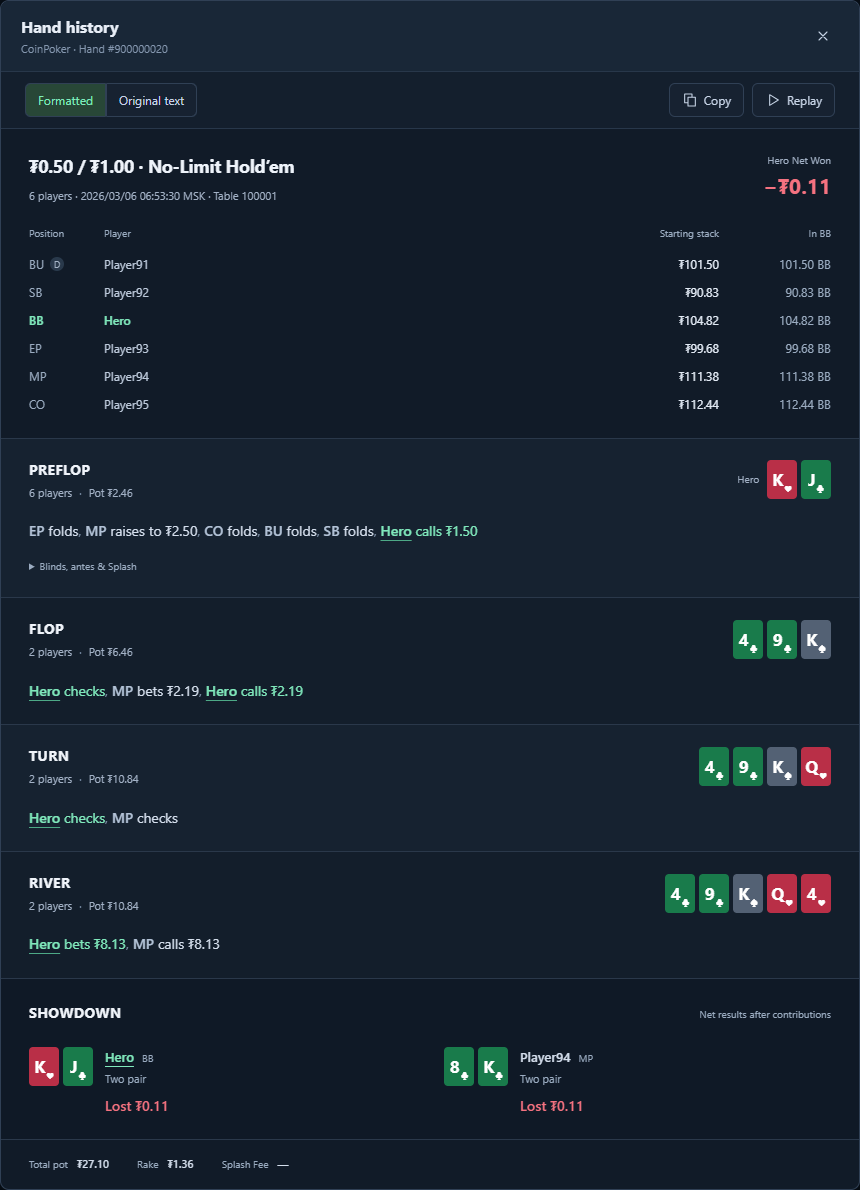
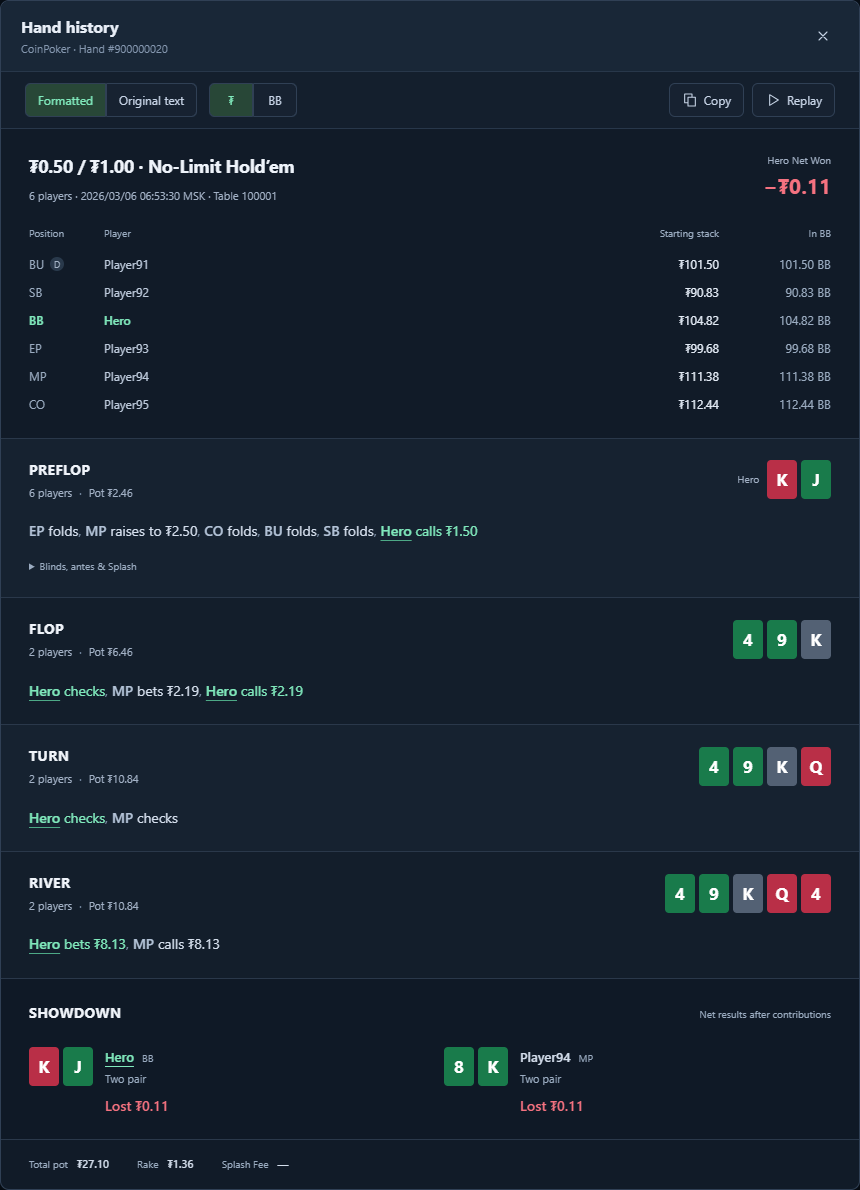
feat: refine hand cards, loss ordering and history units

diff --git a/src/ui/hand-review.css b/src/ui/hand-review.css
@@ -1,5 +1,5 @@
 .review-hand-identity{display:flex;align-items:center;gap:8px}.review-splash-badge{display:inline-flex;align-items:center;justify-content:center;flex-shrink:0;width:22px;height:22px;border-radius:50%;background:#e8bc53;border:1px solid #f7d778;color:#392a0d;font-size:12px;font-weight:800;line-height:1;vertical-align:middle}.review-legend .review-splash-badge{width:16px;height:16px;font-size:10px}
-.losing-hands .section-head{gap:16px;flex-wrap:wrap}.losing-hands .section-head small{margin-top:5px}.review-sort{display:flex;align-items:center;gap:10px;font-size:11px;color:#9aaec5}.losing-hands-scroll{overflow-x:auto}.losing-hands-scroll table{min-width:950px}.losing-hands-scroll th{background:transparent;text-align:left;padding:10px 8px;font-weight:400;color:#9aaec5;border-bottom:1px solid #28374a}.losing-hands-scroll td{text-align:left;height:54px;padding:8px}.losing-hands-scroll td.review-number,.losing-hands-scroll th.review-number{text-align:right}.losing-hands-scroll tbody tr{cursor:pointer}.losing-hands-scroll tbody tr:hover{background:#192737}.hand-open{background:transparent;border:0;text-align:left;padding:0;font-size:12px;white-space:nowrap}.hand-open:hover{background:transparent;color:#55dca9}.hand-open small{font-size:10px;max-width:175px;overflow:hidden;text-overflow:ellipsis;margin-top:4px}.hand-text-button{display:inline-flex;align-items:center;justify-content:center;padding:6px;background:transparent;border:0}.hand-text-button:hover{background:#25364b}button:disabled{opacity:.4;cursor:default}.review-trail{display:flex;align-items:center;gap:6px;white-space:nowrap}.review-cards{display:inline-flex;gap:3px;vertical-align:middle}.playing-card,.playing-card-back{display:inline-flex;align-items:center;justify-content:center;gap:1px;min-width:23px;height:28px;padding:1px 3px;border-radius:3px;font-size:12px;font-weight:700;line-height:1;color:#172531;background:#f0f4f8}.playing-card.suit-h{color:#bc3149}.playing-card.suit-d{color:#176cb1}.playing-card.suit-c{color:#16805a}.playing-card-back{background:#1c2c3d;color:#8496ae;border:1px solid #304055}.review-action{color:#82baff;font-weight:500;font-size:12px}.review-action.review-hero{color:#55dca9;text-decoration:underline;text-underline-offset:4px}.review-action sup{font-size:9px;margin-left:1px}.trail-board{display:inline-flex;align-items:center;gap:3px;border-left:1px solid #304055;padding-left:6px}.trail-board small{font-size:10px}.review-legend{display:flex;align-items:center;gap:15px;flex-wrap:wrap;margin-top:14px;font-size:10px;color:#9aaec5}.review-legend u{color:#55dca9;text-underline-offset:3px}.review-error{color:#ffc2c7;font-size:12px;margin:10px 0}.review-sr{position:absolute;width:1px;height:1px;padding:0;overflow:hidden;clip:rect(0,0,0,0);white-space:nowrap;border:0}
+.losing-hands .section-head{gap:16px;flex-wrap:wrap}.losing-hands .section-head small{margin-top:5px}.review-sort{display:flex;align-items:center;gap:10px;font-size:11px;color:#9aaec5}.losing-hands-scroll{overflow-x:auto}.losing-hands-scroll table{min-width:950px}.losing-hands-scroll th{background:transparent;text-align:left;padding:10px 8px;font-weight:400;color:#9aaec5;border-bottom:1px solid #28374a}.losing-hands-scroll td{text-align:left;height:54px;padding:8px}.losing-hands-scroll td.review-number,.losing-hands-scroll th.review-number{text-align:right}.losing-hands-scroll tbody tr{cursor:pointer}.losing-hands-scroll tbody tr:hover{background:#192737}.hand-open{background:transparent;border:0;text-align:left;padding:0;font-size:12px;white-space:nowrap}.hand-open:hover{background:transparent;color:#55dca9}.hand-open small{font-size:10px;max-width:175px;overflow:hidden;text-overflow:ellipsis;margin-top:4px}.hand-text-button{display:inline-flex;align-items:center;justify-content:center;padding:6px;background:transparent;border:0}.hand-text-button:hover{background:#25364b}button:disabled{opacity:.4;cursor:default}.review-trail{display:flex;align-items:center;gap:6px;white-space:nowrap}.review-cards{display:inline-flex;gap:3px;vertical-align:middle}.playing-card,.playing-card-back{display:inline-flex;align-items:center;justify-content:center;gap:1px;min-width:23px;height:28px;padding:1px 3px;border-radius:3px;font-size:12px;font-weight:700;line-height:1;color:#fff;background:#536174}.playing-card.suit-h{background:#b92f47}.playing-card.suit-d{background:#1765ad}.playing-card.suit-c{background:#197b4b}.playing-card-back{background:#1c2c3d;color:#8496ae;border:1px solid #304055}.review-action{color:#82baff;font-weight:500;font-size:12px}.review-action.review-hero{color:#55dca9;text-decoration:underline;text-underline-offset:4px}.review-action sup{font-size:9px;margin-left:1px}.trail-board{display:inline-flex;align-items:center;gap:3px;border-left:1px solid #304055;padding-left:6px}.trail-board small{font-size:10px}.review-legend{display:flex;align-items:center;gap:15px;flex-wrap:wrap;margin-top:14px;font-size:10px;color:#9aaec5}.review-legend u{color:#55dca9;text-underline-offset:3px}.review-error{color:#ffc2c7;font-size:12px;margin:10px 0}.review-sr{position:absolute;width:1px;height:1px;padding:0;overflow:hidden;clip:rect(0,0,0,0);white-space:nowrap;border:0}
 .hand-review-dialog{color:#e8eef7;background:#111b28;border:1px solid #304055;border-radius:9px;padding:0;width:min(1000px,calc(100% - 40px));max-width:1000px;max-height:calc(100dvh - 40px);overflow:auto;box-shadow:0 18px 65px #0007;color-scheme:dark;font-family:Inter,'Segoe UI',sans-serif;font-size:12px}.hand-review-dialog::backdrop{background:#030810b8}.review-window{min-width:0}.review-window-head{display:flex;align-items:center;justify-content:space-between;gap:16px;padding:15px 20px;background:#192737;border-bottom:1px solid #28374a}.review-window-head h2{font-size:16px;margin:0}.review-window-head small{margin-top:4px}.review-window-head button{display:flex;align-items:center;justify-content:center;background:transparent;border:0;padding:8px}.review-window-meta{display:flex;align-items:center;justify-content:space-between;gap:12px;flex-wrap:wrap;padding:12px 20px;color:#9aaec5;font-size:11px}.review-window-meta>span{overflow-wrap:anywhere}.review-window-meta>span:last-child{display:inline-flex;align-items:center;gap:7px}.replay-layout{display:grid;grid-template-columns:minmax(0,1fr) 225px;border-top:1px solid #28374a}.replay-table-stage{position:relative;height:410px;margin:0 16px}.replay-felt{position:absolute;inset:65px 6% 65px;border-radius:45%;border:7px solid #233b3a;background:#142e2b;display:flex;flex-direction:column;align-items:center;justify-content:center;gap:10px}.replay-felt>small{text-transform:capitalize;font-size:11px}.replay-felt>strong{font-size:15px}.replay-boards{display:grid;gap:7px}.replay-board{display:flex;align-items:center;justify-content:center;gap:6px}.replay-board small{font-size:10px}.replay-board .playing-card{width:32px;height:42px;font-size:17px}.replay-seat{position:absolute;transform:translate(-50%,-50%);width:112px;padding:7px 5px;background:#192737;border:1px solid #304055;border-radius:6px;text-align:center;display:flex;align-items:center;flex-direction:column;gap:4px;font-size:11px}.replay-seat>strong{max-width:100%;overflow:hidden;text-overflow:ellipsis;white-space:nowrap;font-size:12px}.replay-seat>span:not(.review-cards){font-size:10px;color:#a3b2c6}.replay-seat .review-cards{margin-top:1px}.replay-seat .playing-card,.replay-seat .playing-card-back{height:24px;min-width:22px;font-size:11px}.replay-seat.seat-folded{opacity:.5}.replay-seat.seat-active{outline:2px solid #55dca9;outline-offset:0}.replay-seat .seat-live{position:absolute;top:100%;background:#0b1420;color:#55dca9;border-radius:3px;padding:3px 5px;margin-top:3px;font-size:10px;white-space:nowrap}.dealer-marker{display:inline-flex;align-items:center;justify-content:center;background:#edf3f5;color:#233240;border-radius:50%;height:16px;width:16px;margin-left:5px;font-size:10px;font-weight:700}.replay-many .replay-seat{width:88px;font-size:10px;padding:5px 3px}.replay-many{height:470px}.replay-action-log{background:#0b111b;border-left:1px solid #28374a;padding:16px 12px;min-width:0}.replay-action-log h3{margin:0 0 10px}.replay-action-log button{display:block;width:100%;text-align:left;border:0;background:transparent;color:#9aaec5;font-size:11px;padding:8px 7px;border-radius:4px;overflow-wrap:anywhere}.replay-action-log button[aria-current=step]{background:#192737;color:#e8eef7;box-shadow:inset 2px 0 #55dca9}.replay-controls{display:flex;align-items:center;justify-content:space-between;gap:10px;padding:14px 20px;border-top:1px solid #28374a}.replay-transport{display:flex;align-items:center;gap:7px;flex-wrap:wrap}.replay-controls button,.history-toolbar button{display:inline-flex;align-items:center;justify-content:center;gap:6px}.replay-transport button{padding:7px;min-width:32px}.replay-transport small{display:inline;margin-left:5px}.replay-streets{display:flex;gap:6px;padding:0 20px 12px}.replay-streets button{flex:1;min-width:0;font-size:11px;padding:7px 2px;background:#192737;border:0}.replay-streets button[aria-pressed=true]{background:#284737;color:#80e9bc}.replay-progress{display:block;width:calc(100% - 40px);margin:0 20px;padding:0;min-height:16px;accent-color:#55dca9;border:0;background:transparent}.replay-current{padding:10px 20px 17px;text-align:center;color:#b3c5db;font-size:12px;overflow-wrap:anywhere;min-height:43px}.history-toolbar{display:flex;align-items:center;gap:8px;padding:12px 20px;border-top:1px solid #28374a;border-bottom:1px solid #28374a;flex-wrap:wrap}.history-toolbar>span{margin-left:auto;font-size:11px;color:#55dca9}.history-body{padding:20px 24px;line-height:1.8;overflow-wrap:anywhere}.history-body h3{display:flex;align-items:center;gap:8px;flex-wrap:wrap;color:#55dca9;font-size:13px;margin:18px 0 5px}.history-body .history-hero{color:#80e9bc}.history-players{margin-bottom:18px;color:#a3b2c6;display:flex;gap:6px 18px;flex-wrap:wrap}.history-body pre{white-space:pre-wrap;overflow-wrap:anywhere;margin:0;font:12px/1.7 Consolas,monospace;user-select:text}.review-issues{padding:12px 20px;border-top:1px solid #28374a;color:#9aaec5;font-size:11px}.review-issues p{overflow-wrap:anywhere}
 @media(max-width:800px){.hand-review-dialog{width:calc(100% - 20px);max-height:calc(100dvh - 20px)}.replay-layout{grid-template-columns:1fr}.replay-action-log{border-left:0;border-top:1px solid #28374a;display:flex;gap:5px;flex-wrap:wrap}.replay-action-log h3{width:100%;margin:0 0 5px}.replay-action-log button{width:auto;max-width:100%;font-size:10px;padding:6px}.replay-table-stage{height:390px;margin:0 10px}.replay-seat{width:96px}.replay-window-meta{padding:12px}.replay-controls{padding:12px;flex-wrap:wrap}.replay-streets{padding:0 12px 10px;gap:4px}.history-toolbar{padding:12px}.history-body{padding:16px}.replay-felt{inset:60px 5%}.replay-transport{gap:5px}.review-window-meta{padding:12px}.review-window-head{padding:12px}.replay-many{height:470px}.replay-many .replay-seat{width:80px}}
 @media(max-width:430px){.losing-hands .section-head{align-items:flex-start}.replay-seat{width:82px;padding:5px 3px}.replay-seat>strong{font-size:11px}.replay-seat>span:not(.review-cards){font-size:9px}.replay-board .playing-card{width:24px;height:34px;font-size:14px;min-width:24px;padding:1px}.replay-board{gap:3px}.replay-board .review-cards{gap:2px}.replay-felt>strong{font-size:13px}.replay-transport button{min-width:30px}.replay-transport small{margin-left:1px;font-size:10px}.replay-controls>button{font-size:11px;padding:7px}.replay-felt{border-width:5px}.replay-board small{font-size:9px}.replay-many .replay-seat{width:72px}.hand-open small{max-width:115px}.history-toolbar .unit button{min-width:0}.history-toolbar>span{width:100%;margin:0}.history-toolbar>span:empty{display:none}}

diff --git a/tests/browser/hand-review.spec.ts b/tests/browser/hand-review.spec.ts
@@ -32,7 +32,9 @@ test('Top 10 hands ranks both ways, follows filters and opens safe accessible re
  await page.getByLabel('Select CoinPoker file').setInputFiles({name:'review.txt',mimeType:'text/plain',buffer:Buffer.from('\uFEFF'+sample)});
  await expect(page.getByRole('button',{name:'Cancel import'})).toHaveCount(0,{timeout:90000});
  const section=page.getByRole('region',{name:'Top 10 hands',exact:true}),rows=section.locator('tbody tr');
- await expect(rows).toHaveCount(10);await expect(rows.first()).toContainText('900000022');
+ await expect(rows).toHaveCount(10);await expect(rows.first()).toContainText('910000201');
+ await section.getByRole('button',{name:'Reverse hand sort order'}).click();
+ await expect(rows.first()).toContainText('900000022');
  await section.getByRole('button',{name:'Reverse hand sort order'}).click();
  await expect(rows.first()).toContainText('910000201');
  await expect(section.getByRole('button',{name:'Replay hand 910000201',exact:true})).toBeEnabled();
@@ -91,9 +93,9 @@ test('Net Won and Pot sort both ways and Splash-only filtering includes regular 
  const section=page.getByRole('region',{name:'Top 10 hands',exact:true}),rows=section.locator('tbody tr');
  await expect(rows).toHaveCount(4,{timeout:90000});
  await expect(rows.locator('.hand-open')).toHaveText([
-  /#900000015/,/#910001001/,/#900000116/,/#900000016/
+  /#900000116/,/#900000016/,/#910001001/,/#900000015/
  ]);
- await expect(section.getByRole('columnheader',{name:'Net Won'})).toHaveAttribute('aria-sort','descending');
+ await expect(section.getByRole('columnheader',{name:'Net Won'})).toHaveAttribute('aria-sort','ascending');
  await section.getByLabel('Rank hands by').selectOption('pot');
  await expect(rows.locator('.hand-open')).toHaveText([/#900000116/,/#900000016/,/#900000015/,/#910001001/]);
  await section.getByRole('button',{name:'Sort by Pot',exact:true}).click();
@@ -111,6 +113,12 @@ test('Net Won and Pot sort both ways and Splash-only filtering includes regular 
  await expect(rows.locator('.hand-open')).toHaveText([/#900000116/,/#900000016/]);
  await expect(page.getByTestId('card-hands').locator('strong')).toHaveText(globalHands);
  await section.getByRole('checkbox',{name:'Splash hands only'}).uncheck();await expect(rows).toHaveCount(4);
+ await section.getByRole('button',{name:'Sort by Net Won',exact:true}).click();
+ await expect(rows.locator('.hand-open')).toHaveText([/#900000116/,/#900000016/,/#910001001/,/#900000015/]);
+ await section.getByLabel('Rank hands by').selectOption('pot');
+ await section.getByLabel('Rank hands by').selectOption('net');
+ await expect(section.getByRole('columnheader',{name:'Net Won'})).toHaveAttribute('aria-sort','ascending');
+ await expect(rows.first()).toContainText('900000116');
  await section.screenshot({path:'test-results/losing-hands-splash.png'});
 });
 
@@ -119,8 +127,13 @@ test('winning hands open a visual street history with cards, results and respons
  const sample=['900000006','900000011','900000020'].map(id=>fs.readFileSync('tests/fixtures/'+id+'.txt','utf8')).join('\n');
  await page.getByLabel('Select CoinPoker file').setInputFiles({name:'wins-and-losses.txt',mimeType:'text/plain',buffer:Buffer.from(sample)});
  const section=page.getByRole('region',{name:'Top 10 hands',exact:true}),rows=section.locator('tbody tr');
- await expect(rows).toHaveCount(3,{timeout:90000});await expect(rows.first()).toContainText('900000006');
- await expect(rows.first().locator('.positive')).toBeVisible();
+ await expect(rows).toHaveCount(3,{timeout:90000});await expect(rows.first()).toContainText('900000011');
+ await expect(rows.first().locator('.negative')).toBeVisible();
+ await expect(rows.filter({hasText:'900000006'}).locator('.positive')).toBeVisible();
+ const tableHeart=section.locator('.losing-hands-scroll .playing-card[aria-label="Kh"]');
+ await expect(tableHeart).toBeVisible();
+ const tableCardColor=await tableHeart.evaluate(node=>getComputedStyle(node).backgroundColor);
+ expect((await section.locator('.playing-card').allTextContents()).join('')).not.toMatch(/[♠♥♦♣]/);
  await section.getByRole('button',{name:'Text history for hand 900000006',exact:true}).click();
  const history=page.getByRole('dialog',{name:'Hand history',exact:true});await expect(history).toBeVisible();
  await expect(history.locator('.history-street')).toHaveCount(4);
@@ -131,6 +144,8 @@ test('winning hands open a visual street history with cards, results and respons
  await history.getByRole('button',{name:'Close window',exact:true}).click();
  await section.getByRole('button',{name:'Text history for hand 900000020',exact:true}).click();
  await expect(history).toBeVisible();
+ await expect(history.locator('.playing-card[aria-label="Kh"]').first()).toHaveCSS('background-color',tableCardColor);
+ expect((await history.locator('.playing-card').allTextContents()).join('')).not.toMatch(/[♠♥♦♣]/);
  await page.setViewportSize({width:1440,height:1600});
  await history.screenshot({path:'test-results/hand-history-visual-desktop.png'});
  await page.setViewportSize({width:390,height:1800});
@@ -140,4 +155,35 @@ test('winning hands open a visual street history with cards, results and respons
  await history.getByRole('button',{name:'Formatted',exact:true}).click();
  await page.keyboard.press('Escape');await expect(history).toHaveCount(0);
  await expect(section.getByRole('button',{name:'Text history for hand 900000020',exact:true})).toBeFocused();
+});
+
+test('Hand History switches stakes between currency and BB independently of the dashboard',async({page})=>{
+ await page.goto('/');
+ await page.getByLabel('Select CoinPoker file').setInputFiles('tests/fixtures/900000016.txt');
+ const section=page.getByRole('region',{name:'Top 10 hands',exact:true});
+ await section.getByRole('button',{name:'Text history for hand 900000016',exact:true}).click();
+ const history=page.getByRole('dialog',{name:'Hand history',exact:true});
+ const bb=history.getByRole('button',{name:'Show hand history in BB',exact:true}),currency=history.getByRole('button',{name:'Show hand history in ₮',exact:true});
+ await expect(bb).toBeVisible();await expect(currency).toHaveAttribute('aria-pressed','true');
+ await expect(history.locator('.history-action-line').first()).toContainText('Hero raises to ₮25.00');
+ await expect(history.locator('.history-action-line').nth(1)).toContainText('Hero bets ₮58.95');
+ await bb.click();await expect(bb).toHaveAttribute('aria-pressed','true');
+ await expect(history.locator('.history-action-line').first()).toContainText('Hero raises to 12.50 BB');
+ await expect(history.locator('.history-action-line').nth(1)).toContainText('Hero bets 29.48 BB');
+ await expect(history.locator('.history-hero-result')).toContainText('−41.74 BB');
+ await history.locator('.history-forced summary').click();
+ await expect(history.locator('.history-forced')).toContainText('posts small blind 0.50 BB');
+ await expect(history.locator('.history-forced')).toContainText('Splash dropped 6.00 BB');
+ await expect(page.getByRole('button',{name:'₮',exact:true})).toHaveAttribute('aria-pressed','true');
+ await expect(section.locator('.losing-hands-scroll .review-number.negative')).toContainText('−₮83.48');
+ await currency.click();await expect(history.locator('.history-action-line').first()).toContainText('Hero raises to ₮25.00');
+ await bb.click();await history.getByRole('button',{name:'Original text',exact:true}).click();
+ await expect(bb).toBeDisabled();await expect(currency).toBeDisabled();
+ await expect(history.locator('pre')).toContainText('Hero: bets ₮58.95');
+ await history.getByRole('button',{name:'Formatted',exact:true}).click();
+ await expect(bb).toBeEnabled();await expect(bb).toHaveAttribute('aria-pressed','true');
+ await expect(history.locator('.history-action-line').first()).toContainText('Hero raises to 12.50 BB');
+ await page.setViewportSize({width:390,height:1200});
+ await expect.poll(()=>history.evaluate(node=>node.scrollWidth<=node.clientWidth)).toBe(true);
+ await currency.click();await expect(history.locator('.history-action-line').first()).toContainText('Hero raises to ₮25.00');
 });

diff --git a/src/ui/FormattedHistory.tsx b/src/ui/FormattedHistory.tsx
@@ -5,7 +5,7 @@ import {Cards,reviewMoney} from './ReviewCards.tsx';
 const title=(street:string)=>street[0]!.toUpperCase()+street.slice(1);
 function ActionPhrase({event,hand,unit}:{event:ReviewEvent;hand:ReviewHand;unit:string}){
  const player=hand.players.find(player=>player.name===event.player);
- const verbs:Record<string,string>={R:'raises to',B:'bets',C:'calls',X:'checks',F:'folds',Return:'receives uncalled bet',Straddle:'straddles'};
+ const verbs:Record<string,string>={R:'raises to',B:'bets',C:'calls',X:'checks',F:'folds',Return:'receives uncalled bet',Straddle:'straddles',Ante:'posts ante',SB:'posts small blind',BB:'posts big blind','Auto BB':'posts auto blind'};
  const actor=event.player==='Hero'?'Hero':player?.position??event.player;
  return <span className={'history-action '+(event.player==='Hero'?'is-hero':'')} title={event.text}><span className="history-actor">{actor}</span> {verbs[event.code??'']??event.code}{event.amount!==undefined&&<> {reviewMoney(event.amount,hand.bigBlind,unit)}</>}{event.allIn&&' all-in'}</span>;
 }
@@ -22,7 +22,7 @@ export function FormattedHistory({hand,unit}:{hand:ReviewHand;unit:string}){
   <div className="history-streets">{streets.map((street,index)=><section className="history-street" key={index} aria-label={title(street.street)+' history'}>
    <div className="history-street-head"><div><h3>{title(street.street)}</h3><p>{street.players} players <span>·</span> Pot {reviewMoney(street.pot,hand.bigBlind,unit)}</p></div><div className="history-street-boards">{street.street==='preflop'?<div className="history-hole-cards"><span>Hero</span><Cards cards={hand.players.find(player=>player.name==='Hero')?.cards??null}/></div>:Object.entries(street.boards).map(([board,cards])=><div key={board} className="history-street-board">{multipleBoards&&<small>Board {Number(board)+1}</small>}<Cards cards={cards}/></div>)}</div></div>
    {street.events.length?<p className="history-action-line">{street.events.map((event,i)=><span key={i}>{i>0&&<span className="history-action-separator">, </span>}<ActionPhrase event={event} hand={hand} unit={unit}/></span>)}</p>:<p className="history-no-actions">No betting actions.</p>}
-   {street.street==='preflop'&&forced.length>0&&<details className="history-forced"><summary>Blinds, antes &amp; Splash</summary><div>{forced.map((event,i)=><p key={i}>{event.text}</p>)}</div></details>}
+   {street.street==='preflop'&&forced.length>0&&<details className="history-forced"><summary>Blinds, antes &amp; Splash</summary><div>{forced.map((event,i)=><p key={i}>{event.kind==='splash'?<>{event.text.startsWith('MEGA')?'Mega Splash':'Splash'} dropped {reviewMoney(event.amount??null,hand.bigBlind,unit)}</>:<ActionPhrase event={event} hand={hand} unit={unit}/>}</p>)}</div></details>}
   </section>)}</div>
   <section className="history-showdown" aria-label="Hand results"><div className="history-results-head"><h3>{hand.events.some(event=>event.street==='showdown')?'Showdown':'Results'}</h3><span>Net results after contributions</span></div><div className="history-result-players">{results.map(result=><article key={result.player.name} className={'history-player-result '+(result.player.name==='Hero'?'is-hero':'')}>
    <Cards cards={result.cards}/><div><div className="history-result-name"><strong>{result.player.name}</strong><span>{result.player.position}</span></div><div className="history-combination">{result.folded?'Folded':result.combinations.length?result.combinations.map((combination,i)=><span key={i}>{multipleBoards&&`B${i+1}: `}{combination}</span>):'Cards not revealed'}</div><strong className={'history-outcome '+netClass(result.player.net)}>{result.player.net===null?'Net Won unavailable':result.player.net>0n?'Won '+reviewMoney(result.player.net,hand.bigBlind,unit):result.player.net<0n?'Lost '+reviewMoney(-result.player.net,hand.bigBlind,unit):'Net Won '+reviewMoney(0n,hand.bigBlind,unit)}</strong></div>

diff --git a/src/ui/HandReview.tsx b/src/ui/HandReview.tsx
@@ -6,7 +6,7 @@ import './hand-review.css';
 import './formatted-history.css';
 
 export function HandReview({hand,initialView,unit,opener,onClose}:{hand:ReviewHand;initialView:'replay'|'text';unit:string;opener:HTMLButtonElement;onClose:()=>void}){
- const [view,setView]=useState(initialView),[index,setIndex]=useState(0),[playing,setPlaying]=useState(false),[raw,setRaw]=useState(false),[copyStatus,setCopyStatus]=useState('');
+ const [view,setView]=useState(initialView),[index,setIndex]=useState(0),[playing,setPlaying]=useState(false),[raw,setRaw]=useState(false),[historyUnit,setHistoryUnit]=useState(unit==='BB'?'BB':'₮'),[copyStatus,setCopyStatus]=useState('');
  const dialog=useRef<HTMLDialogElement>(null),last=hand.events.length-1,event=hand.events[index]!,frame=event.frame;
  useEffect(()=>{const node=dialog.current!,overflow=document.body.style.overflow;node.showModal();document.body.style.overflow='hidden';return ()=>{node.close();document.body.style.overflow=overflow;opener.focus();};},[opener]);
  useEffect(()=>{if(!playing)return;const timer=setInterval(()=>setIndex(i=>Math.min(i+1,last)),850);return ()=>clearInterval(timer);},[playing,last]);
@@ -34,8 +34,8 @@ export function HandReview({hand,initialView,unit,opener,onClose}:{hand:ReviewHa
    <input className="replay-progress" aria-label="Replay action" type="range" min={0} max={last} value={index} onChange={e=>jump(Number(e.target.value))}/>
    <div className="replay-current" role="status" aria-live="polite">{event.text}</div>
   </>:<>
-   <div className="history-toolbar"><div className="unit"><button aria-pressed={!raw} onClick={()=>setRaw(false)}>Formatted</button><button aria-pressed={raw} onClick={()=>setRaw(true)}>Original text</button></div><span role="status">{copyStatus}</span><button onClick={()=>void copy()}><ReviewIcon name="copy"/>Copy</button><button onClick={switchView}><ReviewIcon name="play"/>Replay</button></div>
-   <div className={'history-body '+(raw?'':'history-formatted')}>{raw?<pre>{hand.raw}</pre>:<FormattedHistory hand={hand} unit={unit}/>}</div>
+   <div className="history-toolbar"><div className="history-view-controls"><div className="unit"><button aria-pressed={!raw} onClick={()=>setRaw(false)}>Formatted</button><button aria-pressed={raw} onClick={()=>setRaw(true)}>Original text</button></div><div className="unit history-unit" role="group" aria-label="Hand history units" title={raw?'Original text keeps its recorded amounts.':'Bet sizes and results in currency or big blinds'}>{(['₮','BB'] as const).map(mode=><button key={mode} aria-label={'Show hand history in '+mode} aria-pressed={historyUnit===mode} disabled={raw} onClick={()=>setHistoryUnit(mode)}>{mode}</button>)}</div></div><span role="status">{copyStatus}</span><div className="history-toolbar-actions"><button onClick={()=>void copy()}><ReviewIcon name="copy"/>Copy</button><button onClick={switchView}><ReviewIcon name="play"/>Replay</button></div></div>
+   <div className={'history-body '+(raw?'':'history-formatted')}>{raw?<pre>{hand.raw}</pre>:<FormattedHistory hand={hand} unit={historyUnit}/>}</div>
   </>}
   {!!hand.issues.length&&<details className="review-issues"><summary>Hand diagnostics ({hand.issues.length})</summary><p>{hand.issues.join(' · ')}</p></details>}
  </div></dialog>;

diff --git a/src/ui/TopHands.tsx b/src/ui/TopHands.tsx
@@ -29,13 +29,13 @@ export function TopHands({rows:queryRows,ranking,onRankingChange,worker,unit}:{r
  },[worker,ids,retry]);
  const open=(id:string,view:'replay'|'text',opener:HTMLButtonElement)=>{const hand=details[id];if(hand)setOpened({hand,view,opener});};
  const change=(patch:Partial<HandRanking>)=>onRankingChange({...ranking,...patch});
- const sort=(metric:HandRanking['metric'])=>change({metric,direction:ranking.metric===metric&&ranking.direction==='desc'?'asc':'desc'});
+ const sort=(metric:HandRanking['metric'])=>change({metric,direction:ranking.metric===metric?(ranking.direction==='desc'?'asc':'desc'):(metric==='net'?'asc':'desc')});
  return <section className="panel losing-hands top-hands" aria-label="Top 10 hands">
-  <div className="section-head"><div><h2>Top 10 hands</h2><small>Current filters · {ranking.metric==='net'?'Hero Net Won':'Total pot before charges'} · {ranking.direction==='desc'?'Highest first':'Lowest first'}</small></div>
+  <div className="section-head"><div><h2>Top 10 hands</h2><small>Current filters · {ranking.metric==='net'?'Hero Net Won':'Total pot before charges'} · {ranking.metric==='net'?(ranking.direction==='asc'?'Biggest losses first':'Biggest wins first'):(ranking.direction==='desc'?'Largest pots first':'Smallest pots first')}</small></div>
    <div className="review-sort">
     <label className="review-splash-filter"><input type="checkbox" aria-label="Splash hands only" checked={ranking.splashOnly} onChange={e=>change({splashOnly:e.target.checked})}/><span className="review-splash-badge" aria-hidden="true">S</span><span>Splash only</span></label>
-    <label className="review-rank-select">Sort by<select aria-label="Rank hands by" value={ranking.metric} onChange={e=>change({metric:e.target.value as HandRanking['metric'],direction:'desc'})}><option value="net">Net Won</option><option value="pot">Pot</option></select></label>
-    <button className="review-sort-direction" aria-label="Reverse hand sort order" onClick={()=>change({direction:ranking.direction==='desc'?'asc':'desc'})}>{ranking.direction==='desc'?'High to low ↓':'Low to high ↑'}</button>
+    <label className="review-rank-select">Sort by<select aria-label="Rank hands by" value={ranking.metric} onChange={e=>{const metric=e.target.value as HandRanking['metric'];change({metric,direction:metric==='net'?'asc':'desc'});}}><option value="net">Net Won</option><option value="pot">Pot</option></select></label>
+    <button className="review-sort-direction" aria-label="Reverse hand sort order" onClick={()=>change({direction:ranking.direction==='desc'?'asc':'desc'})}>{ranking.metric==='net'?(ranking.direction==='asc'?'Losses first ↑':'Wins first ↓'):(ranking.direction==='desc'?'High to low ↓':'Low to high ↑')}</button>
     <div className="unit" aria-label="Hand ranking unit">{(['currency','bb'] as const).map(mode=><button key={mode} aria-label={'Rank hands in '+(mode==='bb'?'BB':'₮')} aria-pressed={ranking.unit===mode} onClick={()=>change({unit:mode})}>{mode==='bb'?'BB':'₮'}</button>)}</div>
    </div>
   </div>

diff --git a/src/ui/formatted-history.css b/src/ui/formatted-history.css
@@ -1,5 +1,7 @@
 .history-dialog{width:min(860px,calc(100% - 40px))}
 .history-dialog .history-toolbar{border-top:0;background:#141f2d;padding:11px 24px}
+.history-view-controls{display:flex;align-items:center;gap:12px;flex-wrap:wrap}
+.history-toolbar-actions{display:flex;align-items:center;gap:8px;margin-left:auto}
 .history-formatted{padding:0;line-height:1.5;font-size:13px}
 .history-formatted p{margin:0}
 .history-overview{padding:24px 28px 20px}
@@ -31,11 +33,6 @@
 .history-hole-cards>span,.history-street-board>small{color:#a3b2c6;font-size:10px}
 .history-formatted .review-cards{gap:4px}
 .history-formatted .playing-card,.history-formatted .playing-card-back{height:39px;min-width:30px;font-size:17px;padding:2px 4px;border-radius:4px;color:#fff;border:0}
-.history-formatted .playing-card>span{font-size:11px;align-self:flex-end;margin-bottom:3px}
-.history-formatted .playing-card.suit-s{background:#536174}
-.history-formatted .playing-card.suit-h{background:#b92f47}
-.history-formatted .playing-card.suit-d{background:#1765ad}
-.history-formatted .playing-card.suit-c{background:#197b4b}
 .history-formatted .playing-card-back{background:#2b3a4c;color:#a5b5ca}
 .history-action-line{font-size:14px;line-height:1.95;overflow-wrap:anywhere;color:#d5dfed}
 .history-actor{font-weight:600;color:#b3c3d7}
@@ -70,6 +67,7 @@
  .history-dialog .history-toolbar{padding:10px 16px;gap:6px}
  .history-dialog .history-toolbar button{font-size:11px;padding:7px 9px}
  .history-dialog .history-toolbar>span:empty{display:none}
+ .history-view-controls{gap:8px}
  .history-street,.history-showdown{padding:20px}
  .history-street-head{gap:12px;flex-wrap:wrap;margin-bottom:13px}
  .history-street-boards{justify-content:flex-start}

diff --git a/tests/review.test.ts b/tests/review.test.ts
@@ -9,12 +9,13 @@ import type {Database} from '../src/ui/data.ts';
 async function fixture(id:string){const lines=fs.readFileSync(`tests/fixtures/${id}.txt`,'utf8').trimEnd().split(/\r?\n/).map((raw,i)=>({raw,line:i+1}));return processHand({lines,startLine:1,endLine:lines.length},{equity:false});}
 const database={} as Database;
 
-test('Top 10 defaults to biggest Hero wins and can rank losses or pots in currency and BB',async()=>{
+test('Top 10 defaults to biggest Hero losses and can rank wins or pots in currency and BB',async()=>{
  const p=await fixture('900000011'),a=fact(p),b=fact(await fixture('900000005'));
  a.hand.totalPot=20000n;a.hand.bigBlind=100n;a.hero.netWon.value=-10000n;
  b.hand.totalPot=30000n;b.hand.bigBlind=500n;b.hero.netWon.value=9000n;
  const result=query([a,b],[],defaults,database,true);
- assert.deepEqual(result.topHands.map(h=>h.id),['900000005','900000011']);
+ assert.deepEqual(result.topHands.map(h=>h.id),['900000011','900000005']);
+ assert.deepEqual(query([a,b],[],defaults,database,true,{metric:'net',direction:'desc',unit:'currency',splashOnly:false}).topHands.map(h=>h.id),['900000005','900000011']);
  assert.deepEqual(query([a,b],[],defaults,database,true,{metric:'net',direction:'asc',unit:'bb',splashOnly:false}).topHands.map(h=>h.id),['900000011','900000005']);
  assert.deepEqual(query([a,b],[],defaults,database,true,{metric:'pot',direction:'desc',unit:'currency',splashOnly:false}).topHands.map(h=>h.id),['900000005','900000011']);
  assert.deepEqual(query([a,b],[],defaults,database,true,{metric:'pot',direction:'asc',unit:'currency',splashOnly:false}).topHands.map(h=>h.id),['900000011','900000005']);

diff --git a/src/ui/ReviewCards.tsx b/src/ui/ReviewCards.tsx
@@ -2,8 +2,7 @@ import type {ReviewEvent} from '../review/model.ts';
 
 export function Cards({cards}:{cards:readonly string[]|null}){
  if(!cards)return <span className="review-cards" aria-label="Cards not revealed"><span className="playing-card-back">?</span><span className="playing-card-back">?</span></span>;
- const suits:Record<string,string>={s:'♠',h:'♥',d:'♦',c:'♣'};
- return <span className="review-cards">{cards.map((card,i)=><span key={i} className={'playing-card suit-'+card.slice(-1)} aria-label={card}>{card.slice(0,-1)}<span>{suits[card.slice(-1)]??'?'}</span></span>)}</span>;
+ return <span className="review-cards">{cards.map((card,i)=><span key={i} className={'playing-card suit-'+card.slice(-1)} aria-label={card}>{card.slice(0,-1)}</span>)}</span>;
 }
 export function reviewMoney(amount:bigint|null,bb:bigint,unit:string):string {
  if(amount===null)return '—';

diff --git a/src/review/selection.ts b/src/review/selection.ts
@@ -2,7 +2,7 @@ import type {Fact} from '../ui/data.ts';
 
 export interface RankedHand {id:string;date:string;bigBlind:bigint;pot:bigint|null;net:bigint|null;position:string;splashType:Fact['hand']['splashType']}
 export interface HandRanking {metric:'net'|'pot';direction:'asc'|'desc';unit:'currency'|'bb';splashOnly:boolean}
-export const defaultHandRanking:HandRanking={metric:'net',direction:'desc',unit:'currency',splashOnly:false};
+export const defaultHandRanking:HandRanking={metric:'net',direction:'asc',unit:'currency',splashOnly:false};
 
 export function rankHands(facts:readonly Fact[],options:HandRanking=defaultHandRanking):RankedHand[] {
  const result:{hand:RankedHand;value:bigint}[]=[];

diff --git a/README.md b/README.md
@@ -17,7 +17,7 @@ Your hand history is processed on your device and never uploaded. Poker analysis
 - Global filters for dates, stakes, position, player count, game type, ante in BB, and Splash category. Players offers HU through 6-max, plus 7-max through 10-max when present in the database. Positions use EP, MP, CO, BU, SB, BB (the heads-up button is BU).
 - Days, Months, Limits, and Positions tables with sorting, draggable columns, and row-to-filter navigation. Limits groups stakes by ante amount, such as NL200 (0.32); clicking a row selects both stakes and ante.
 - Currency (`₮`) and big-blind (`BB`) display modes.
-- Top 10 hands under the analysis tables, following global filters and including wins, losses and folds. Rank by Hero Net Won or Pot, highest or lowest first, in `₮` or `BB` independently of the display unit. Defaults to the largest Net Won first. A gold **S** badge marks Splash and Mega Splash; the Splash-only checkbox filters this block independently.
+- Top 10 hands under the analysis tables, following global filters and including wins, losses and folds. Rank by Hero Net Won or Pot, highest or lowest first, in `₮` or `BB` independently of the display unit. Defaults to Hero's biggest losses first (most negative Net Won). A gold **S** badge marks Splash and Mega Splash; the Splash-only checkbox filters this block independently.
 - Compact cards and action histories: R raise, B bet, C call, X check, F fold, AI all-in; Hero actions are underlined and action tooltips show the player and original sizing.
 - Click a hand to open the in-page replayer with action playback, street navigation, stack/pot updates and recorded card reveals. The document icon opens a visual history with starting stacks, boards and actions by street, highlighted Hero actions, and showdown cards and net results. Original text and copying remain available. Escape, the backdrop and the close button dismiss either modal.
 - Data Quality / Coverage panel showing duplicates, conflicts, parsing errors, EV coverage, and unavailable facts.

diff --git a/CHANGELOG.md b/CHANGELOG.md
@@ -5,11 +5,13 @@
 ### Added
 
 - Visual hand history with starting stacks, street-by-street boards and actions, Hero highlighting, and showdown cards and net results.
+- Independent ₮ / BB switch in Hand History for actions, bets, street pots and results, including blinds, antes and Splash drops.
 - Net Won and Pot rankings in both directions, in currency or BB, with an independent Splash-only checkbox.
 
 ### Changed
 
-- Top 10 hands includes wins and losses and defaults to the largest Hero Net Won first.
+- Top 10 hands includes wins and losses and defaults to Hero's biggest losses first (most negative Net Won).
+- Cards use four suit background colors and rank labels without suit symbols throughout hand review and the Top 10 table.
 - Winning hand histories are available for replay and formatted/original viewing.
 - Top 10 controls update independently of the results chart and analysis tables.
 
